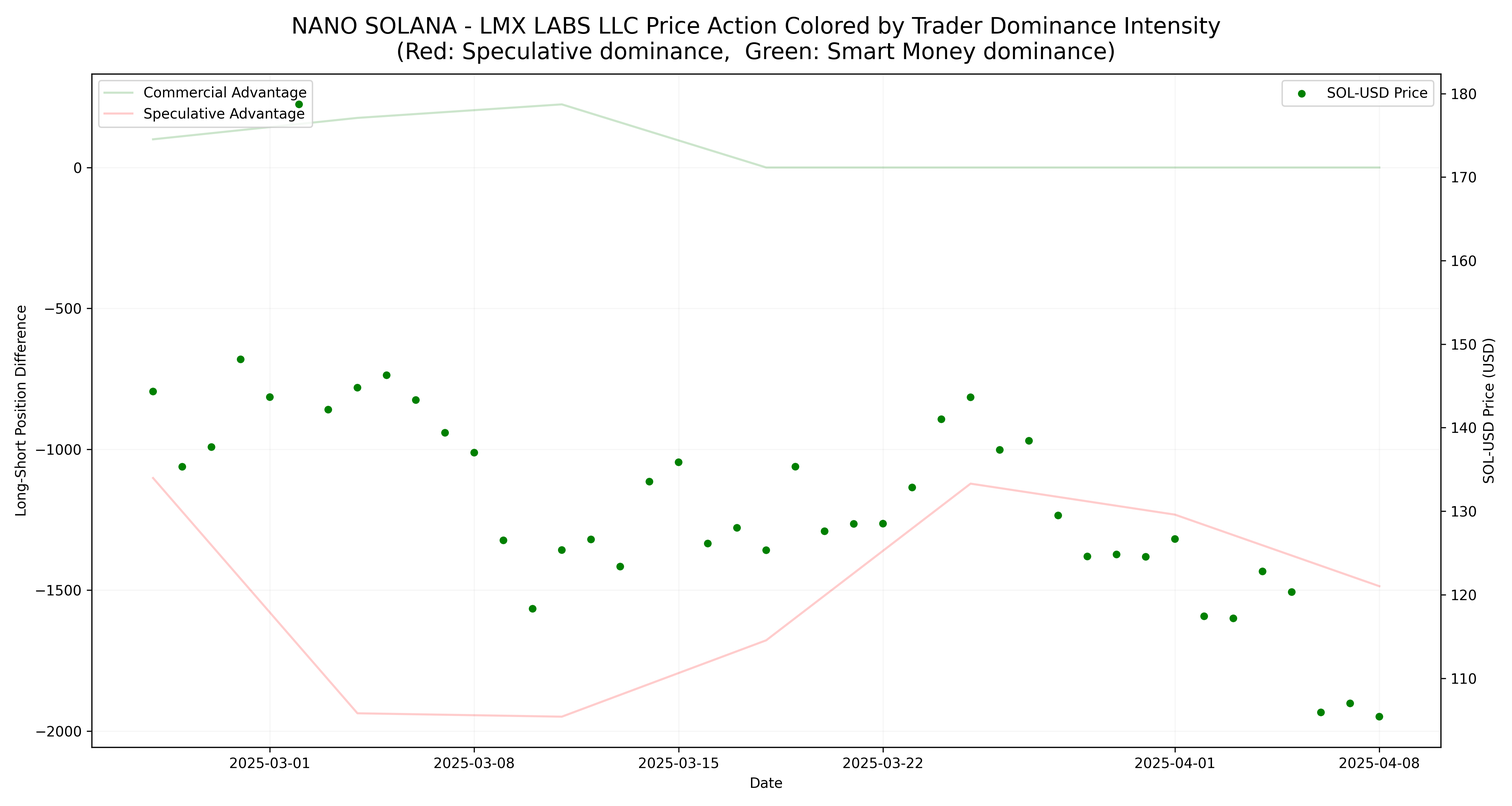
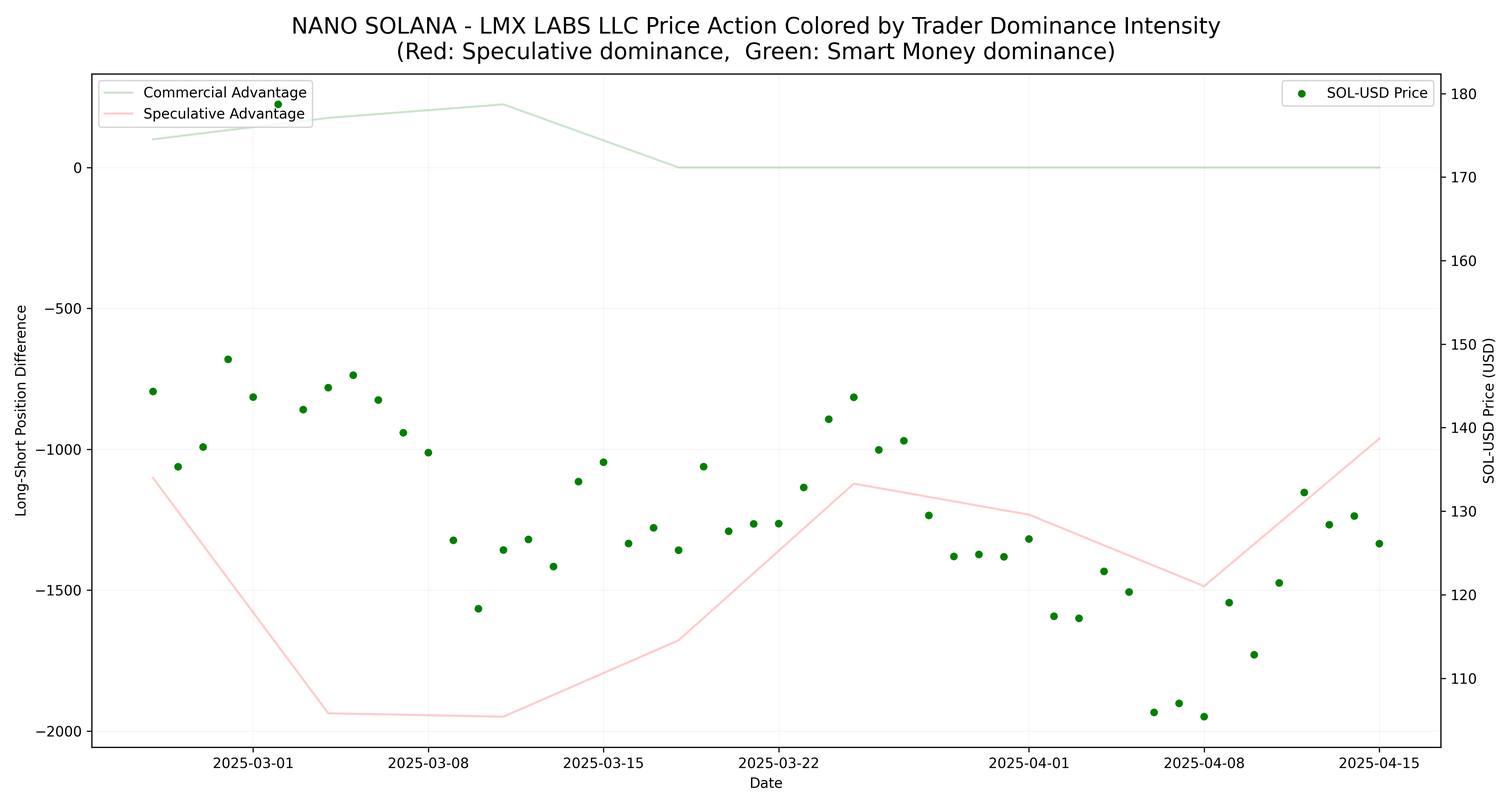
Daily update: 2025-04-19

diff --git a/index.html b/index.html
@@ -32,42 +32,26 @@
 </head>
 <body>
   <header>
-    <h1>Состояние крипто рынка на 18 April 2025 09:24</h1>
+    <h1>Состояние крипто рынка на 19 April 2025 11:44</h1>
     <p class="disclaimer">Эту страницу не следует толковать как финансовый совет.</p>
-     <p> Цена BTC-USD на момент анализа: 84764.0</p>
+     <p> Цена BTC-USD на момент анализа: 85155.9</p>
   </header>
   
   <section id="tldr">
     <h2>Общее Резюме (TLDR):</h2>
     <p>
-<h2>Рынок криптовалют на 18 апреля 2025 года — Краткий обзор и стратегические рекомендации</h2>
+<div class="crypto-report">
+  <h3>BTC</h3>
+  <p>Модель Stock-to-Flow продолжает указывать на сильную недооцененность биткоина (цена $84 434 vs прогноз $399 052–223 339), однако стратегия GTR выдала сигнал <em>Sell</em>, что вместе с доминированием спекулянтов в CFTC (нетто −854 контракта) и общим медвежьим трендом, низким индексом страха и жадности (32) и смешанными ончейн-метриками активности сети указывает на повышенную осторожность.</p>
 
-<h3>📌 BTC (Bitcoin)</h3>
-<p>
-Модель <strong>Stock-to-Flow</strong> указывает на сильную недооценённость BTC — текущая цена ($84,764) в 4.6 раза ниже модели (предсказанная цена $396,132), что подтверждает долгосрочный бычий потенциал. 
-Циклический анализ указывает на потенциальное завершение бычьего цикла в ближайшие месяцы (апрель–октябрь), но точный тайминг под вопросом. 
-Однако технический индикатор <strong>GTR</strong> показывает сигнал <em>Sell</em>, что сигнализирует о возможной смене тренда вниз. 
-Ончейн-сентимент — смешанный: с одной стороны, активное накопление китами и рекорд по числу крупных держателей, с другой — индекс "Страха и Жадности" остаётся в зоне страха (33), подтверждая нестабильность. 
-CFTC отчёт демонстрирует доминирование спекулянтов и рост защитных позиций Smart Money — дополнительный сигнал к осторожности.
-</p>
-<p><strong>🟡 На сегодняшний день оптимальной стратегией видится наблюдение и накопление на просадках при подтверждении разворота.</strong></p>
+  <h3>ETH</h3>
+  <p>Циклические модели не демонстрируют выраженного бычьего импульса, CFTC фиксирует доминирование спекулянтов по ETH (разница −2 021 контракт) при постепенном наращивании позиций Smart Money, цена удерживается около $1 601.33 (+0.66% за 24 ч.), а крупные переводы (7 488 ETH на FalconX) и снижение активности адресов говорят об ожидании значимых движений.</p>
 
-<h3>📌 ETH (Ethereum)</h3>
-<p>
-Ситуация аналогична BTC: <strong>CFTC</strong> указывает на доминирование спекулянтов и рост медвежьих настроений со стороны Smart Money. 
-Текущий курс $1,586, рост на 1% за сутки, но индекс страха у ETH всё ещё на уровне 37. 
-Ончейн-данные нейтральны: активность китов растёт, но общего импульса пока нет. 
-Позитивным катализатором может стать <strong>обновление Pectra</strong> 7 мая, что краткосрочно может вызвать рост, особенно если рынок в целом сохранит стабильность.
-</p>
-<p><strong>🟡 Сейчас по ETH стоит сохранять осторожность, готовясь к потенциальному отскоку на новостях в мае.</strong></p>
+  <h3>Альткоины</h3>
+  <p>Solana демонстрирует вход Smart Money и бычий тренд (разница +962 контракта), но рост позиций спекулянтов и риск коррекции требуют внимательного мониторинга; одновременно RWA на Arbitrum выросли в 1 000×, не подкрепив цену ARB, а социальное внимание к альтам остаётся низким.</p>
 
-<h3>📌 Альткоины (Altcoins)</h3>
-<p>
-Рынок альткоинов крайне волатилен: отдельные активы (например, The Root Network, Keep Network) показывают мощные пампы (+50–70%), в то время как другие — резкие дампы (Mantra OM -90%). 
-Основной сигнал — бычье смещение по <strong>Solana</strong>: по CFTC у SOL впервые доминирует Smart Money, что подтверждает интерес крупных игроков и делает его одним из наиболее интересных кандидатов на вход при стабилизации BTC. 
-В то же время по другим альтам сентимент и тренды остаются слабыми, а высокая волатильность требует осторожности.
-</p>
-<p><strong>⚠ Рекомендуется пристально следить за SOL: он входит в фазу, где начинается Smart Money аккумулирование — потенциальная возможность.</strong></p>
+  <p><strong>🟡 На сегодняшний день оптимальной стратегией видится воздержаться от открытия новых позиций и выжидать подтверждающих сигналов рынка.</strong></p>
+</div>
 
 
 </p>
@@ -85,7 +69,7 @@ CFTC отчёт демонстрирует доминирование спеку
     </p>
     <h3>Stock-to-flow, сегодня</h3>
     <img src="all_time_price_s2f_2Ydetail.png" alt="Stock-to-Flow сегодня">
-    <p>Модель Stock-tо-Flow:<br>Последняя дата:		2025-04-17<br>Цена на эту дату:		84940.58<br>Предсказанная цена:	396132.57<br>Предсказанная × 1SE:	707550.63<br>Предсказанная ÷ 1SE:	221780.62<br>Предсказанная × 2SE:	1415101.25<br>Предсказанная ÷ 2SE:	110890.31</p>
+    <p>Модель Stock-tо-Flow:<br>Последняя дата:		2025-04-18<br>Цена на эту дату:		84434.77<br>Предсказанная цена:	399052.28<br>Предсказанная × 1SE:	713008.24<br>Предсказанная ÷ 1SE:	223339.24<br>Предсказанная × 2SE:	1426016.47<br>Предсказанная ÷ 2SE:	111669.62</p>
   </section>
   
   <section id="cycle-analysis">
@@ -132,21 +116,21 @@ CFTC отчёт демонстрирует доминирование спеку
     </p>
     <p>
 <div style="font-family: Arial, sans-serif; border: 1px solid #ddd; padding: 15px; border-radius: 5px; background-color: #f9f9f9;">
-    <h2 style="color: #333;">Актуальный COT-отчёт для BITCOIN - CHICAGO MERCANTILE EXCHANGE на 2025-04-08</h2>
+    <h2 style="color: #333;">Актуальный COT-отчёт для BITCOIN - CHICAGO MERCANTILE EXCHANGE на 2025-04-15</h2>
     <hr>
 
     <h3>Smart Money (институциональные игроки)</h3>
     <ul>
-        <li><strong>Чистая позиция:</strong> -897 контрактов</li>
-        <li><strong>Изменение за неделю:</strong> -591 контрактов</li>
-        <li>⚠ Увеличение защитных позиций — осторожный настрой</li>
+        <li><strong>Чистая позиция:</strong> -268 контрактов</li>
+        <li><strong>Изменение за неделю:</strong> +629 контрактов</li>
+        <li>✅ Уменьшение защитных позиций — возможна стабилизация или рост</li>
     </ul>
 
     <h3>Спекулянты (мелкие и средние игроки)</h3>
     <ul>
-        <li><strong>Чистая позиция:</strong> 1332 контрактов</li>
-        <li><strong>Изменение за неделю:</strong> +841 контрактов</li>
-        <li>📈 Рост оптимизма, бычий настрой</li>
+        <li><strong>Чистая позиция:</strong> 586 контрактов</li>
+        <li><strong>Изменение за неделю:</strong> -746 контрактов</li>
+        <li>⚠ Снижение оптимизма, осторожность или фиксация прибыли</li>
     </ul>
 
     <h3><strong>Текущее доминирование:</strong> Спекулянты (розничные и мелкие трейдеры)</h3>
@@ -155,9 +139,9 @@ CFTC отчёт демонстрирует доминирование спеку
 
     <h3>Изменение баланса сил</h3>
     <ul>
-        <li><strong>Разница между Smart Money и спекулянтами:</strong> -2229 контрактов</li>
-        <li><strong>Изменение за неделю:</strong> -1432 контрактов</li>
-        <li>⚠ Усиление позиций спекулянтов — повышенный риск коррекции</li>
+        <li><strong>Разница между Smart Money и спекулянтами:</strong> -854 контрактов</li>
+        <li><strong>Изменение за неделю:</strong> +1375 контрактов</li>
+        <li>📈 Усиление влияния Smart Money — вероятный бычий сигнал</li>
     </ul>
 
     <h3>🔑 Ключевая интерпретация</h3>
@@ -168,21 +152,21 @@ CFTC отчёт демонстрирует доминирование спеку
 </p>
     <p>
 <div style="font-family: Arial, sans-serif; border: 1px solid #ddd; padding: 15px; border-radius: 5px; background-color: #f9f9f9;">
-    <h2 style="color: #333;">Актуальный COT-отчёт для ETHER CASH SETTLED - CHICAGO MERCANTILE EXCHANGE на 2025-04-08</h2>
+    <h2 style="color: #333;">Актуальный COT-отчёт для ETHER CASH SETTLED - CHICAGO MERCANTILE EXCHANGE на 2025-04-15</h2>
     <hr>
 
     <h3>Smart Money (институциональные игроки)</h3>
     <ul>
-        <li><strong>Чистая позиция:</strong> -1154 контрактов</li>
-        <li><strong>Изменение за неделю:</strong> -1093 контрактов</li>
-        <li>⚠ Увеличение защитных позиций — осторожный настрой</li>
+        <li><strong>Чистая позиция:</strong> -987 контрактов</li>
+        <li><strong>Изменение за неделю:</strong> +167 контрактов</li>
+        <li>✅ Уменьшение защитных позиций — возможна стабилизация или рост</li>
     </ul>
 
     <h3>Спекулянты (мелкие и средние игроки)</h3>
     <ul>
-        <li><strong>Чистая позиция:</strong> 1217 контрактов</li>
-        <li><strong>Изменение за неделю:</strong> +1242 контрактов</li>
-        <li>📈 Рост оптимизма, бычий настрой</li>
+        <li><strong>Чистая позиция:</strong> 1034 контрактов</li>
+        <li><strong>Изменение за неделю:</strong> -183 контрактов</li>
+        <li>⚠ Снижение оптимизма, осторожность или фиксация прибыли</li>
     </ul>
 
     <h3><strong>Текущее доминирование:</strong> Спекулянты (розничные и мелкие трейдеры)</h3>
@@ -191,9 +175,9 @@ CFTC отчёт демонстрирует доминирование спеку
 
     <h3>Изменение баланса сил</h3>
     <ul>
-        <li><strong>Разница между Smart Money и спекулянтами:</strong> -2371 контрактов</li>
-        <li><strong>Изменение за неделю:</strong> -2335 контрактов</li>
-        <li>⚠ Усиление позиций спекулянтов — повышенный риск коррекции</li>
+        <li><strong>Разница между Smart Money и спекулянтами:</strong> -2021 контрактов</li>
+        <li><strong>Изменение за неделю:</strong> +350 контрактов</li>
+        <li>📈 Усиление влияния Smart Money — вероятный бычий сигнал</li>
     </ul>
 
     <h3>🔑 Ключевая интерпретация</h3>
@@ -204,7 +188,7 @@ CFTC отчёт демонстрирует доминирование спеку
 </p>
     <p>
 <div style="font-family: Arial, sans-serif; border: 1px solid #ddd; padding: 15px; border-radius: 5px; background-color: #f9f9f9;">
-    <h2 style="color: #333;">Актуальный COT-отчёт для NANO SOLANA - LMX LABS LLC на 2025-04-08</h2>
+    <h2 style="color: #333;">Актуальный COT-отчёт для NANO SOLANA - LMX LABS LLC на 2025-04-15</h2>
     <hr>
 
     <h3>Smart Money (институциональные игроки)</h3>
@@ -216,9 +200,9 @@ CFTC отчёт демонстрирует доминирование спеку
 
     <h3>Спекулянты (мелкие и средние игроки)</h3>
     <ul>
-        <li><strong>Чистая позиция:</strong> -1486 контрактов</li>
-        <li><strong>Изменение за неделю:</strong> -254 контрактов</li>
-        <li>⚠ Снижение оптимизма, осторожность или фиксация прибыли</li>
+        <li><strong>Чистая позиция:</strong> -962 контрактов</li>
+        <li><strong>Изменение за неделю:</strong> +524 контрактов</li>
+        <li>📈 Рост оптимизма, бычий настрой</li>
     </ul>
 
     <h3><strong>Текущее доминирование:</strong> Smart Money (крупные институциональные игроки)</h3>
@@ -227,9 +211,9 @@ CFTC отчёт демонстрирует доминирование спеку
 
     <h3>Изменение баланса сил</h3>
     <ul>
-        <li><strong>Разница между Smart Money и спекулянтами:</strong> 1486 контрактов</li>
-        <li><strong>Изменение за неделю:</strong> +254 контрактов</li>
-        <li>📈 Усиление влияния Smart Money — вероятный бычий сигнал</li>
+        <li><strong>Разница между Smart Money и спекулянтами:</strong> 962 контрактов</li>
+        <li><strong>Изменение за неделю:</strong> -524 контрактов</li>
+        <li>⚠ Усиление позиций спекулянтов — повышенный риск коррекции</li>
     </ul>
 
     <h3>🔑 Ключевая интерпретация</h3>
@@ -253,99 +237,61 @@ CFTC отчёт демонстрирует доминирование спеку
     <h3>Новостной и ончейн сентимент</h3>
     <p>
 <div>
-  <p><strong>Вкратце:</strong> Биткойн удерживается около отметки $84 700, показав умеренный рост за сутки и уверенное укрепление за неделю, тогда как Ethereum торгуется примерно на уровне $1 590, демонстрируя схожую динамику. Индекс Crypto Fear &amp; Greed находится в зоне «Страха» на уровне 33, хотя он‑чейн метрики китов свидетельствуют о возобновлении институционального накопления (число адресов, держащих от 1 000 до 10 000 BTC, достигло максимума с апреля 2024 года). Более широкий рынок остается волатильным на фоне неопределенностей по тарифам США и Китая и разнонаправленных экономических данных — в Азии наблюдается скромный рост (Nikkei растет на ожиданиях сделки), Китай сохраняет ставки на прежнем уровне, а Южная Корея наращивает фискальные стимулы. Ключевые события сегодня: завершающийся <a href="https://events.coinpedia.org/ai-and-metaverse-innovate-summit-2025-6509/">AI &amp; Metaverse Innovate Summit 2025</a> (17–18 апреля) и <a href="https://events.coinpedia.org/tokenizethis-2025-6643/">Tokenize This 2025</a> (16–18 апреля), а также запланированное на 7 мая обновление Pectra в сети Ethereum. Социальные настроения разделились: по данным Santiment сентимент по биткойну стал бычьим (1.973), тогда как классический Fear &amp; Greed по‑прежнему отражает «Страх», что подчеркивает осторожный, опирающийся на данные подход.</p>
+  <h2>Краткое резюме</h2>
+  <p>Bitcoin торгуется по цене $85,286, что на 0.97% выше за последние 24 часа, в то время как Ethereum находится на уровне $1,601.33, прибавив 0.66% за тот же период. Источники: <a href="https://www.tradingview.com/symbols/BTCUSD/">https://www.tradingview.com/symbols/BTCUSD/</a>, <a href="https://www.tradingview.com/symbols/ETHUSD/">https://www.tradingview.com/symbols/ETHUSD/</a></p>
+  <p>Индекс страха и жадности криптовалют остается в зоне «страха» на уровне 32, снизившись с 33 вчера и ниже прошлой недели (43) и прошлого месяца (49). Источник: <a href="https://alternative.me/crypto/fear-and-greed-index/">https://alternative.me/crypto/fear-and-greed-index/</a></p>
+  <p>Макроэкономические факторы, такие как эскалация торговой войны между США и Китаем, высокие тарифы и ожидаемые данные PMI, оказывают давление на рынки, способствуя риск‑корректировке в активах. Источник: <a href="https://tradingeconomics.com/calendar">https://tradingeconomics.com/calendar</a></p>
+  <p>На он‑чейн наблюдается активность «китов»: сооснователь F2Pool продал 50 WBTC, а «спящий» адрес перевел 7 488 ETH на FalconX. Источник: <a href="https://whale-alert.io/">https://whale-alert.io/</a></p>
+  <p>Социальные настроения смешанные: по данным Santiment, индекс настроений по Bitcoin вырос до 1.973, но в целом рынок остается осторожным. Источник: <a href="https://santiment.net/">https://santiment.net/</a></p>
 
-  <h2>BTC–USD Анализ</h2>
-  <h3>Индекс «Страха и Жадности»</h3>
-  <p>Индекс <a href="https://alternative.me/crypto/fear-and-greed-index/">Crypto Fear &amp; Greed</a> находится на уровне <strong>33 (Страх)</strong>, поднявшись с 30 вчера и с «Экстремального страха» на уровне 25 неделю назад.</p>
+  <h2>Анализ BTC</h2>
+  <p><strong>Индекс страха и жадности:</strong> сейчас 32 («страх»), вчера 33 («страх»), неделю назад 43 («страх»), месяц назад 49 («нейтрально»). Источник: <a href="https://alternative.me/crypto/fear-and-greed-index/">https://alternative.me/crypto/fear-and-greed-index/</a></p>
+  <p><strong>Текущая цена:</strong> $85,286; <strong>+0.97%</strong> за 24 ч. Источник: <a href="https://www.tradingview.com/symbols/BTCUSD/">https://www.tradingview.com/symbols/BTCUSD/</a></p>
+  <p><strong>Тренд за неделю:</strong> +2.28%. Источник: <a href="https://www.tradingview.com/symbols/BTCUSD/">https://www.tradingview.com/symbols/BTCUSD/</a></p>
+  <p><strong>Тренд за месяц:</strong> –1.82%. Источник: <a href="https://www.tradingview.com/symbols/BTCUSD/">https://www.tradingview.com/symbols/BTCUSD/</a></p>
+  <p><strong>Он‑чейн:</strong> сооснователь F2Pool продал 50 WBTC; «спящий» адрес перевел 7 488 ETH на FalconX. Источник: <a href="https://whale-alert.io/">https://whale-alert.io/</a></p>
+  <p><strong>Социальные настроения:</strong> по данным Santiment, индекс настроений Bitcoin достиг 1.973, но общий фон остается «страхом». Источник: <a href="https://santiment.net/">https://santiment.net/</a></p>
 
-  <h3>Поведение цены</h3>
-  <ul>
-    <li><strong>Текущая цена</strong>: $84 719,80, рост на 0,1 % за последние 24 ч. (<a href="https://www.coingecko.com/en/coins/bitcoin">CoinGecko BTC Live</a>).</li>
-    <li><strong>Вчера vs Сегодня</strong>: с $84 106 до $84 719,80 — рост 0,7 %. (<a href="https://www.coingecko.com/en/coins/bitcoin/usd">CoinGecko Historical</a>).</li>
-  </ul>
-
-  <h3>Недельные и месячные тренды</h3>
-  <ul>
-    <li><strong>7 дней</strong>: +4,3 %. (<a href="https://www.coingecko.com/en/coins/bitcoin">CoinGecko BTC Live</a>).</li>
-    <li><strong>30 дней</strong>: +1,8 %. (<a href="https://www.coingecko.com/en/coins/bitcoin">CoinGecko BTC Live</a>).</li>
-  </ul>
-
-  <h2>ETH–USD Анализ</h2>
-  <h3>Страх и Жадность (он‑чейн/социальный)</h3>
-  <p>По данным он‑чейн сентимента по Ethereum — <strong>37 (Страх)</strong> (<a href="https://x.com/EthereumFear/status/1913019689875255439">Ethereum Fear &amp; Greed Tweet</a>).</p>
-
-  <h3>Поведение цены</h3>
-  <ul>
-    <li><strong>Текущая цена</strong>: $1 585,92, рост на 1,0 % за 24 ч. (<a href="https://www.coingecko.com/en/coins/ethereum">CoinGecko ETH Live</a>).</li>
-    <li><strong>Вчера vs Сегодня</strong>: с $1 577,71 до $1 585,92 — рост 0,5 %. (<a href="https://www.coingecko.com/en/coins/ethereum/usd">CoinGecko Historical</a>).</li>
-  </ul>
-
-  <h3>Недельные и месячные тренды</h3>
-  <ul>
-    <li><strong>7 дней</strong>: +2,1 %. (<a href="https://www.coingecko.com/en/coins/ethereum">CoinGecko ETH Live</a>).</li>
-    <li><strong>30 дней</strong>: +17,9 %. (<a href="https://www.coingecko.com/en/coins/ethereum">CoinGecko ETH Live</a>).</li>
-  </ul>
+  <h2>Анализ ETH</h2>
+  <p><strong>Текущая цена:</strong> $1,601.33; <strong>+0.66%</strong> за 24 ч. Источник: <a href="https://www.tradingview.com/symbols/ETHUSD/">https://www.tradingview.com/symbols/ETHUSD/</a></p>
+  <p><strong>Тренд за неделю:</strong> +4.71%. Источник: <a href="https://www.tradingview.com/symbols/ETHUSD/">https://www.tradingview.com/symbols/ETHUSD/</a></p>
+  <p><strong>Тренд за месяц:</strong> –17.48%. Источник: <a href="https://www.tradingview.com/symbols/ETHUSD/">https://www.tradingview.com/symbols/ETHUSD/</a></p>
+  <p><strong>Он‑чейн:</strong> часть выручки от продажи 50 WBTC была конвертирована в ETH; перевод 7 488 ETH на FalconX. Источник: <a href="https://whale-alert.io/">https://whale-alert.io/</a></p>
+  <p><strong>Социальные настроения:</strong> ETH вместе с BTC лидирует по упоминаниям и вовлеченности. Источник: <a href="https://santiment.net/">https://santiment.net/</a></p>
 
   <h2>Альткоины</h2>
-  <h3>Общерыночные показатели</h3>
+  <p><strong>Топ‑лидеры роста (18–19 апреля):</strong> EOS +15.11%, CRV +13.11%, HYPE +9.10%. Источник: <a href="https://cryptonews.net/">https://cryptonews.net/</a></p>
+  <p><strong>Топ‑аутсайдеры:</strong> JUP –10.62%, IP –5.21%, TIA –4.32%. Источник: <a href="https://cryptonews.net/">https://cryptonews.net/</a></p>
+  <p><strong>Развитие:</strong> объёмы RWA на Arbitrum выросли в 1 000×, но цена ARB остаётся под давлением; капитал перетекает в утилитарные проекты вроде Remittix. Источник: <a href="https://coinspectator.com/">https://coinspectator.com/</a></p>
+  <p><strong>Социальные настроения:</strong> упоминания альткоинов значительно ниже, чем у BTC/ETH. Источник: <a href="https://santiment.net/">https://santiment.net/</a></p>
+
+  <h2>Общерыночный и макроанализ</h2>
+  <p>Эскалация торговой войны США–Китай с тарифами выше 100% сдерживает глобальный рост; Китай может снизить ключевую ставку для поддержания стабильности. Источники: <a href="https://www.reuters.com/">https://www.reuters.com/</a>, <a href="https://tradingeconomics.com/calendar">https://tradingeconomics.com/calendar</a></p>
+  <p>Предварительные данные PMI за апрель ожидаются на уровне двухлетнего максимума по входным ценам. Источник: <a href="https://tradingeconomics.com/calendar">https://tradingeconomics.com/calendar</a></p>
+  <p>Весенние встречи МВФ и Всемирного банка в Вашингтоне привлекают внимание к глобальным рискам. Источник: <a href="https://www.worldbank.org/en/events/2025/04/19/spring-meetings">https://www.worldbank.org/en/events/2025/04/19/spring-meetings</a></p>
+  <p>Акции американских крипто‑компаний (MSTR, COIN, HOOD) упали вслед за Bitcoin на фоне тарифных рисков. Источник: <a href="https://cryptonews.net/">https://cryptonews.net/</a></p>
+
+  <h2>Ключевые события последнего времени</h2>
   <ul>
-    <li><strong>Общая капитализация</strong>: $2,76 T, рост 1,8 % за 24 ч. (<a href="https://www.coingecko.com/">CoinGecko Overall Cap</a>).</li>
-    <li><strong>Доля Bitcoin</strong>: 61 %, <strong>доля Ethereum</strong>: 6,93 %. (<a href="https://www.coingecko.com/">CoinGecko Overall Cap</a>).</li>
+    <li>11 апреля 2025: SEC провела раунд‑табл «Between a Block and a Hard Place» с представителями Uniswap, Coinbase и Cumberland DRW. Источник: <a href="https://www.coinspectator.com/">https://www.coinspectator.com/</a></li>
+    <li>7 апреля 2025: акции крипто‑компаний на NYSE рухнули на фоне нового минимума Bitcoin 2025 года. Источник: <a href="https://cryptopanic.com/">https://cryptopanic.com/</a></li>
+    <li>2 марта 2025: бывший президент США объявил XRP, SOL и ADA частью стратегического крипто‑резерва США. Источник: <a href="https://cryptonews.net/">https://cryptonews.net/</a></li>
   </ul>
 
-  <h3>Лидеры роста и заметные движения</h3>
+  <h2>События сегодня (19 апреля 2025)</h2>
   <ul>
-    <li><strong>Лидеры роста</strong>:<br>
-      – The Root Network +74,2 %<br>
-      – Aergo +53,7 %<br>
-      – Keep Network +59,2 %. (<a href="https://www.coingecko.com/">CoinGecko Trending</a>).
-    </li>
-    <li><strong>Резкий обвал</strong>: Mantra OM упал на 90 % 13 апреля, потеряв около $5,4 млрд капитализации. (<a href="https://www.mitrade.com/insights/news/live-news/article-3-766837-20250417">Mitrade Report on Mantra OM</a>).</li>
+    <li>Запуск RWA‑рынка на Arbitrum с ростом объёмов в 1 000×, несмотря на падение цены ARB. Источник: <a href="https://coinspectator.com/">https://coinspectator.com/</a></li>
+    <li>Изменения в Уголовном кодексе РФ с учётом криптопровизий. Источник: <a href="https://cryptopanic.com/">https://cryptopanic.com/</a></li>
+    <li>Ethereum опускается ниже $1,600 из‑за снижения активности сети. Источник: <a href="https://cryptopanic.com/">https://cryptopanic.com/</a></li>
+    <li>Сооснователь F2Pool продаёт 50 WBTC; перевод 7 488 ETH на FalconX. Источник: <a href="https://whale-alert.io/">https://whale-alert.io/</a></li>
   </ul>
 
-  <h3>Недельные и месячные тренды альткоинов</h3>
-  <p>Например, альткоин “Movement” упал на 43,7 % за последний месяц, сентимент — медвежий. (<a href="https://coincodex.com/article/66264/movement-prediction-april-18-2025/">CoinCodex MOVE Analysis</a>).</p>
-
-  <h2>Широкий рынок и экономика</h2>
+  <h2>Предстоящие значимые события</h2>
   <ul>
-    <li><strong>Фондовые рынки США</strong>: смешанная динамика на фоне ожиданий отчетов за Q1 и тарифов — Apple и Goldman тянут S&amp;P 500 вверх на фоне поблажек по тарифам; технологические акции растут, но неопределенность сохраняется. (<a href="https://www.reuters.com/markets/us/futures-rally-tech-shares-jump-tariff-reprieve-some-electronics-2025-04-14/">Reuters Apr 14 US Close</a>).</li>
-    <li><strong>Азиатско‑Тихоокеанский регион</strong>:
-      <ul>
-        <li><strong>Китай</strong> оставляет ключевые ставки без изменений на фоне ожиданий смягчения из‑за тарифов. (<a href="https://www.reuters.com/markets/rates-bonds/china-set-leave-lending-rates-steady-tariffs-raise-easing-bets-2025-04-18/">Reuters China LPR Survey</a>).</li>
-        <li><strong>Nikkei (Япония)</strong> показывает лучший недельный рост за 3 месяца на ожиданиях торговой сделки. (<a href="https://www.reuters.com/markets/asia/japans-nikkei-notches-best-week-3-months-trade-deal-hopes-2025-04-18/">Reuters Nikkei</a>).</li>
-        <li><strong>Базовая инфляция Японии (CPI)</strong> ускорилась до 3,2 % в г/г в марте, что осложняет задачи Банка Японии. (<a href="https://www.reuters.com/world/japan/japans-core-inflation-accelerates-complicates-bojs-rate-path-2025-04-17/">Reuters Japan CPI</a>).</li>
-        <li><strong>Южная Корея</strong> предлагает дополнительный бюджет в ₩12,2 трлн (~$8,6 млрд) для поддержки роста в условиях тарифного шока. (<a href="https://www.reuters.com/world/asia-pacific/south-korea-proposes-86-billion-extra-budget-tariff-disaster-responses-2025-04-18/">Reuters S.Korea Budget</a>).</li>
-      </ul>
-    </li>
-    <li><strong>Праздничная заметка</strong>: из‑за Страстной пятницы сегодня отсутствуют отчеты по драгметаллам. (<a href="https://www.reuters.com/markets/commodities/profit-booking-pulls-gold-off-all-time-high-2025-04-17/">Reuters Gold Holiday</a>).</li>
+    <li>Crypto Horizons 2025 — 23 апреля, Дубай. Источник: <a href="https://events.coinpedia.org/">https://events.coinpedia.org/</a></li>
+    <li>Cryptosphere 2025 — 26 апреля, Вроцлав, Польша. Источник: <a href="https://events.coinpedia.org/">https://events.coinpedia.org/</a></li>
+    <li>ETHDubai 2025 — 28–29 апреля, Дубай. Источник: <a href="https://events.coinpedia.org/">https://events.coinpedia.org/</a></li>
   </ul>
-
-  <h2>Недавние ключевые события</h2>
-  <ul>
-    <li><strong>AI &amp; Metaverse Innovate Summit 2025</strong> (онлайн, 17–18 апреля) — фокус на применении ИИ в цифровом бизнесе. (<a href="https://events.coinpedia.org/ai-and-metaverse-innovate-summit-2025-6509/">Coinpedia Event</a>).</li>
-    <li><strong>Tokenize This 2025</strong> (Нью-Йорк, 16–18 апреля) — обсуждение токенизации активов. (<a href="https://events.coinpedia.org/tokenizethis-2025-6643/">Coinpedia Event</a>).</li>
-    <li><strong>Обновление Ethereum Pectra</strong> запланировано на 7 мая: расширение L2 blob‑ёмкости и повышение лимита ставок. (<a href="https://www.tradingview.com/symbols/ETHUSD/">TradingView ETH News</a>).</li>
-  </ul>
-
-  <h2>Ключевые события в блокчейне (On‑Chain)</h2>
-  <ul>
-    <li><strong>Накопление китами</strong>: число адресов с 1 000–10 000 BTC достигло 2 014 — максимума с апреля 2024 года. (<a href="https://www.cryptonews.net/news/bitcoin/30821476/">CryptoNews Bitcoin Whales</a>).</li>
-    <li><strong>Мега‑оттоки</strong>: более $1 млрд BTC покинул Kraken 11 апреля (5 994 BTC + 7 001 BTC), что указывает на институциональное накопление. (<a href="https://www.cryptonews.net/news/bitcoin/30805395/">CryptoNews Kraken Outflows</a>).</li>
-    <li><strong>Переезд 600 BTC</strong> на Binance 17 апреля вызвал спекуляции на продажу. (<a href="https://www.cryptonews.net/news/bitcoin/30826678/">CryptoNews 600 BTC Transfer</a>).</li>
-    <li><strong>Активность ETH‑китов</strong>: один кошелек купил 4 208 ETH (~$6,9 млн) через OKX и занял USDT на Aave для левериджа. (<a href="https://www.cryptonews.net/news/ethereum/30815185/">CryptoNews ETH Whale</a>).</li>
-  </ul>
-
-  <h2>Социальные настроения</h2>
-  <ul>
-    <li><strong>Crypto Fear &amp; Greed</strong>: 33 (Страх) сегодня, поднялся с 30 вчера. (<a href="https://alternative.me/crypto/fear-and-greed-index/">Alternative.me</a>).</li>
-    <li><strong>Santiment BTC Sentiment</strong>: 1.973 (бычий), после смены с нейтрального 16 апреля. (<a href="https://cryptomus.com/blog/santiment-flags-bullish-shift-with-bitcoin-nearing-85k-news">Santiment Report</a>).</li>
-    <li><strong>Ethereum F&amp;G (социальный)</strong>: 37 (Страх) по данным специализированного аккаунта в X. (<a href="https://x.com/EthereumFear/status/1913019689875255439">Ethereum Fear &amp; Greed Tweet</a>).</li>
-  </ul>
-
-  <p><strong>Предстоящие события:</strong><br>
-     – 6–7 мая: заседание FOMC ФРС США;<br>
-     – 7 мая: обновление Ethereum Pectra.</p>
 </div>
 </p>
   </section>
